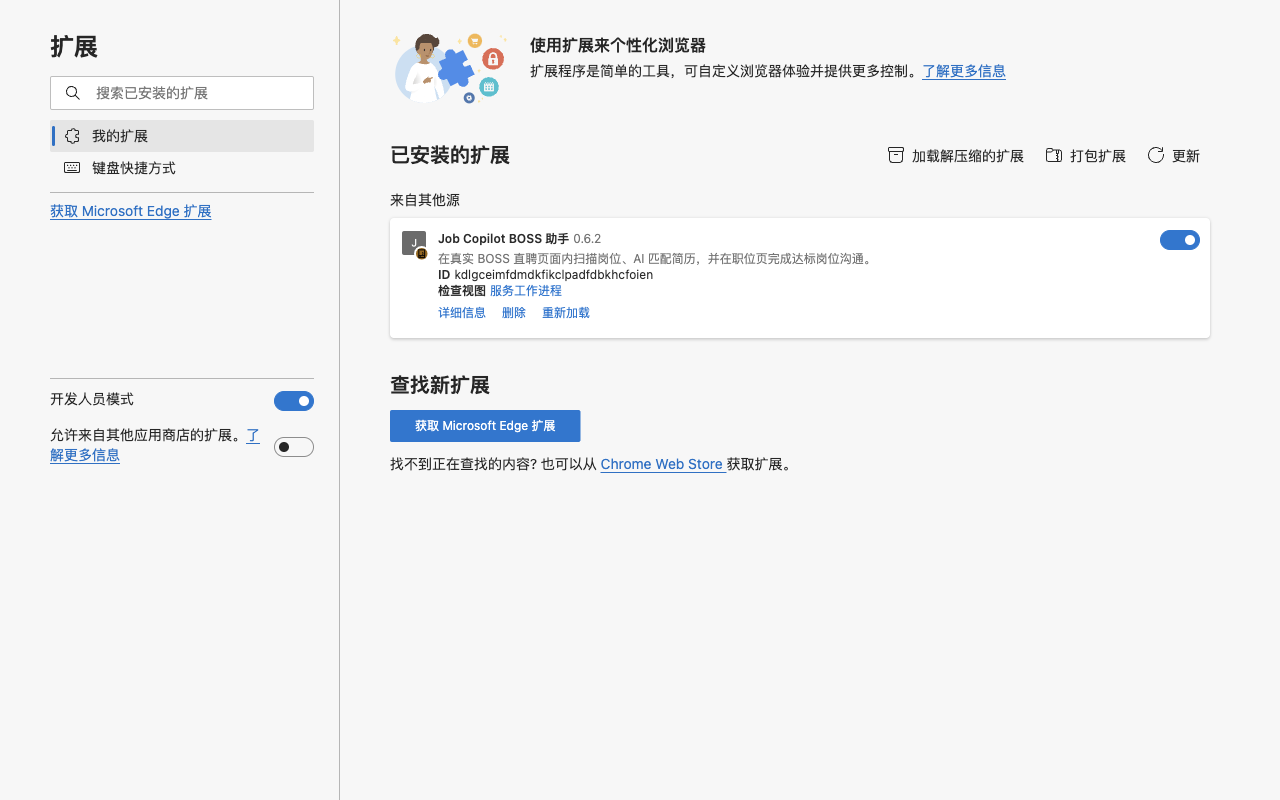
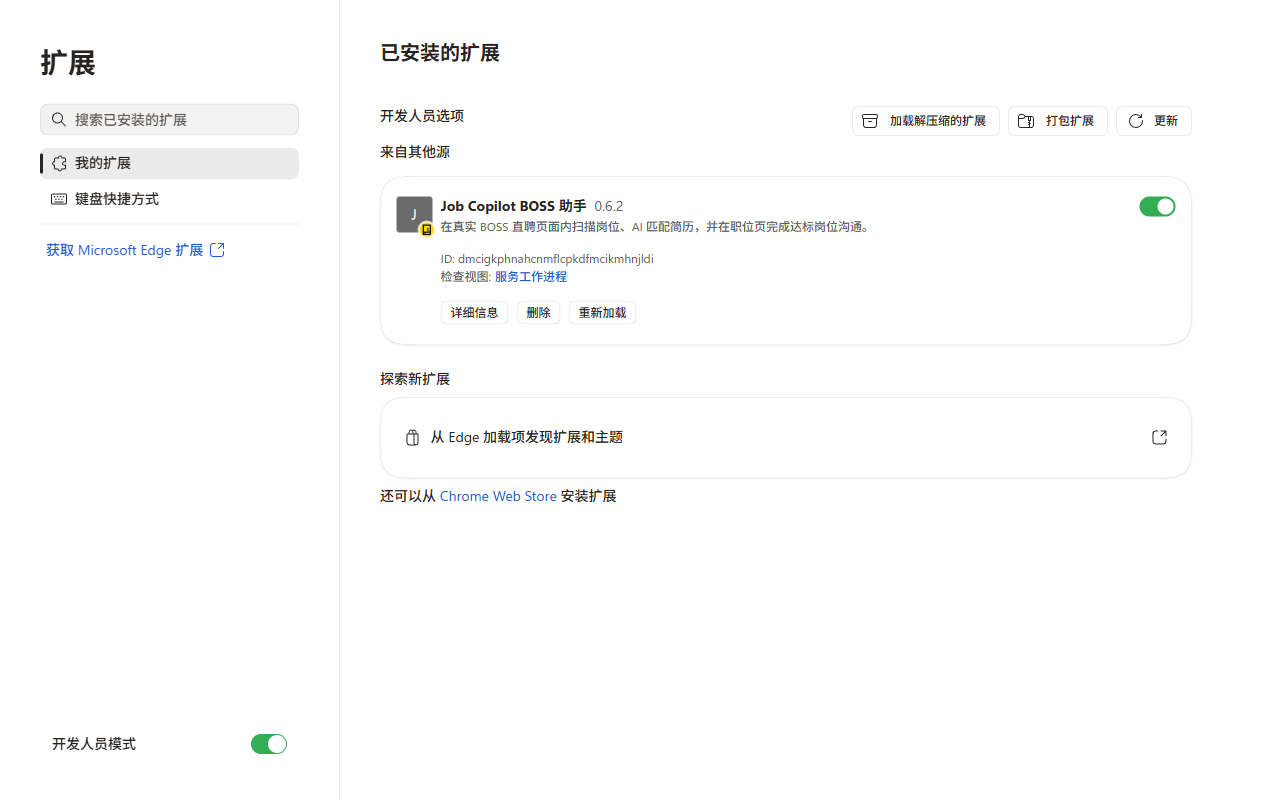
Add Windows install screenshots and fix CRLF test

diff --git a/tests/ai-failure-recovery.test.js b/tests/ai-failure-recovery.test.js
@@ -2,7 +2,9 @@ const assert = require("node:assert/strict");
 const fs = require("node:fs");
 const vm = require("node:vm");
 
-const contentSource = fs.readFileSync(new URL("../content.js", `file://${__dirname}/`), "utf8");
+const contentSource = fs
+  .readFileSync(new URL("../content.js", `file://${__dirname}/`), "utf8")
+  .replace(/\r\n/g, "\n");
 const classifierSource = contentSource.match(
   /function isTransientAiError\(error\) \{[\s\S]*?\n\}\n\nfunction isExtensionContextError/
 );